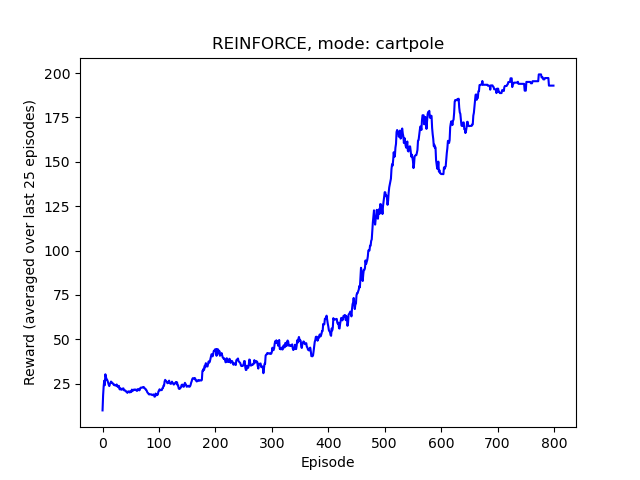
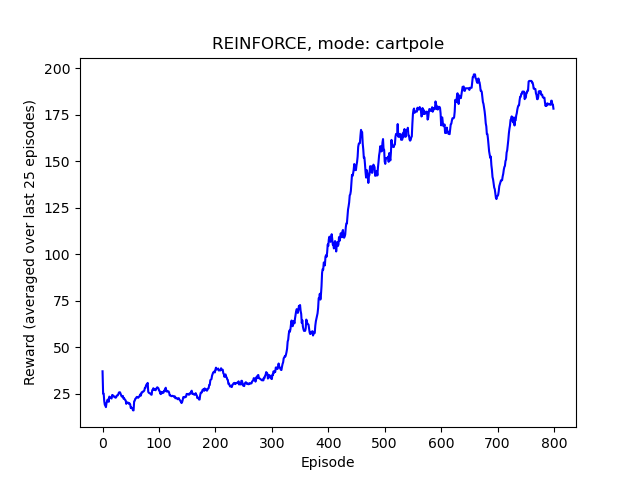
change seeds

diff --git a/a02/p2/REINFORCE.py b/a02/p2/REINFORCE.py
@@ -25,7 +25,7 @@ parser.add_argument('--mode', type=str, default="cartpole")
 args = parser.parse_args()
 
 # Constants
-SEED = 1
+SEED = 3
 t = utils.torch.TorchHelper()
 DEVICE = t.device
 

diff --git a/a02/p2/REINFORCE_Baseline.py b/a02/p2/REINFORCE_Baseline.py
@@ -25,7 +25,7 @@ parser.add_argument('--mode', type=str, default="cartpole")
 args = parser.parse_args()
 
 # Constants
-SEED = 1
+SEED = 3
 t = utils.torch.TorchHelper()
 DEVICE = t.device
 

diff --git a/a02/p2/PPO.py b/a02/p2/PPO.py
@@ -26,7 +26,7 @@ args = parser.parse_args()
 
 
 # Constants
-SEED = 1
+SEED = 42
 t = utils.torch.TorchHelper()
 DEVICE = t.device
 
